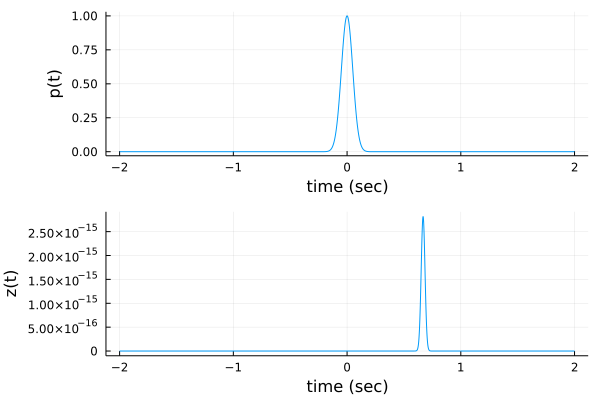
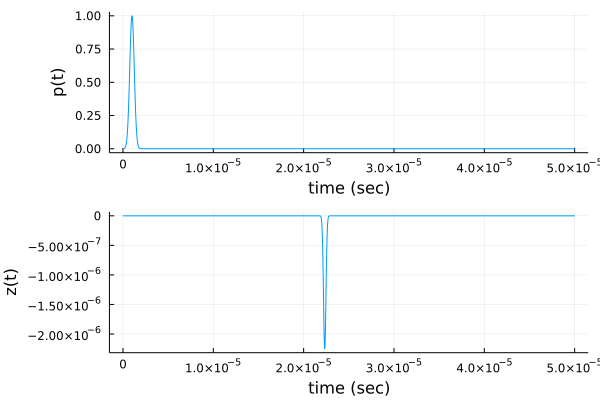
update LTV omni A

Changed region(s): [[0.06, 0.03, 1.0, 0.51], [0.0, 0.51, 1.0, 0.99], [0.51, 0.54, 0.57, 0.63]]

diff --git a/docs/src/omniDirectionalLTV/omnidirLTVsource.md b/docs/src/omniDirectionalLTV/omnidirLTVsource.md
@@ -28,14 +28,17 @@
 ```julia
 using LTVsystems
 using Plots
-𝐩ₛ(t) = [0.5c, 0.0]*t
+s₁ = 0.30c 
+𝐯₁ = [1.0, 0.0] 
+tₚ = 1.0e-06
+𝐩ₛ(t) = [-10.0e-06c,-1.5e-06c] .+ s₁.*𝐯₁.*(t-tₚ) 
 𝐩ᵣ(t) = 𝐩ₛ(t)
-p(t) = δn(t,0.05)
+p(t) = δn(t-tₚ,2.5e-07)
 q = LTVsourceO(𝐩ₛ, p)
-α₀ = 0.7; 𝛏₀ = [0.5c,0.0]
+α₀ = -0.7; 𝛏₀ = [3.75e-06c,0.0]
 r = pointReflector(𝛏₀,α₀,q)
 z = LTVreceiverO([r],𝐩ᵣ)
-t = collect(-2.0:0.001:2.0)
+t=0.0:1.0e-08:50.0e-06
 p1=plot(t,p, xlab="time (sec)", ylab="p(t)", legend=:false)
 p2=plot(t,z(t), xlab="time (sec)", ylab="z(t)", legend=:false)
 plot(p1,p2,layout=(2,1))
